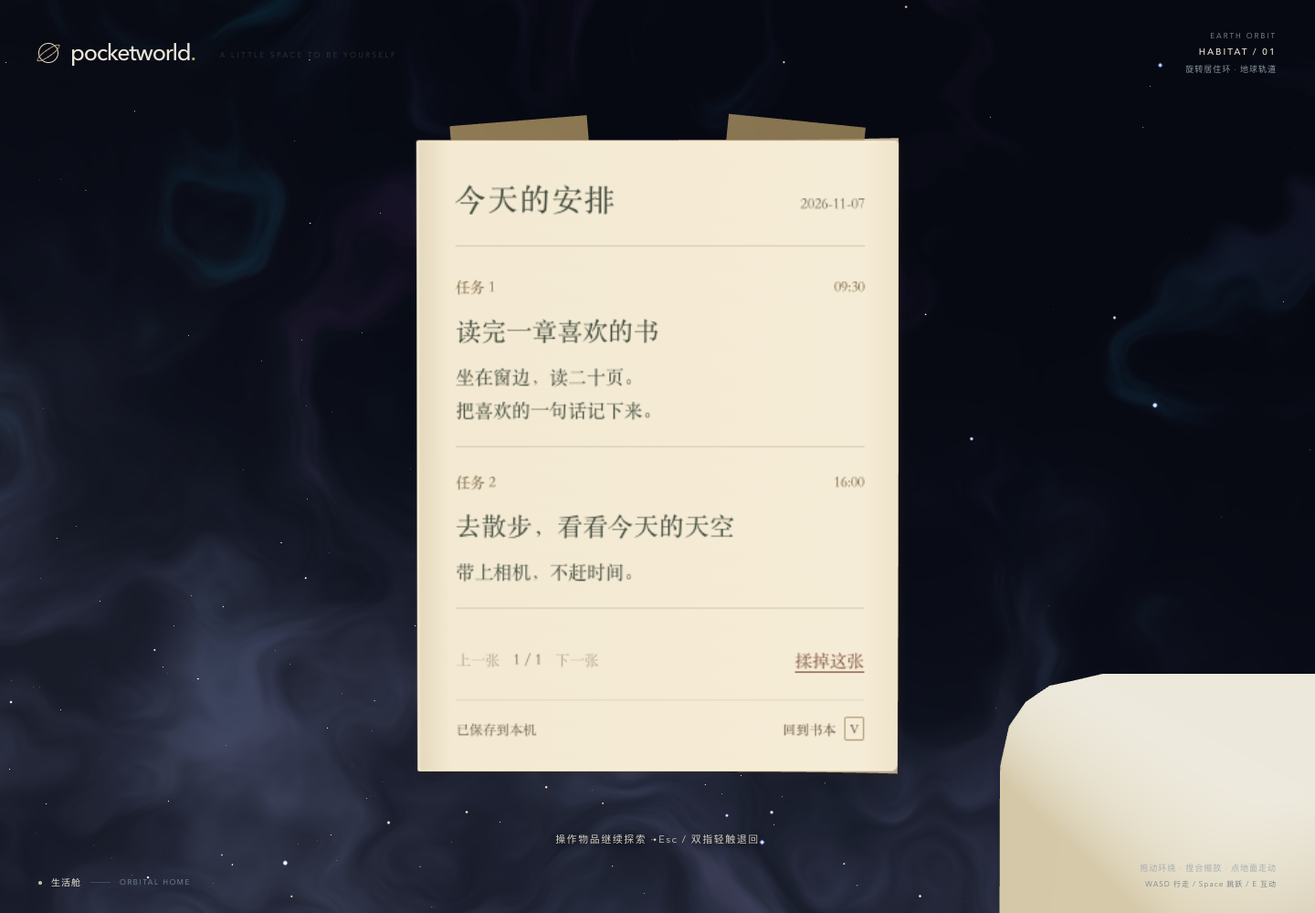
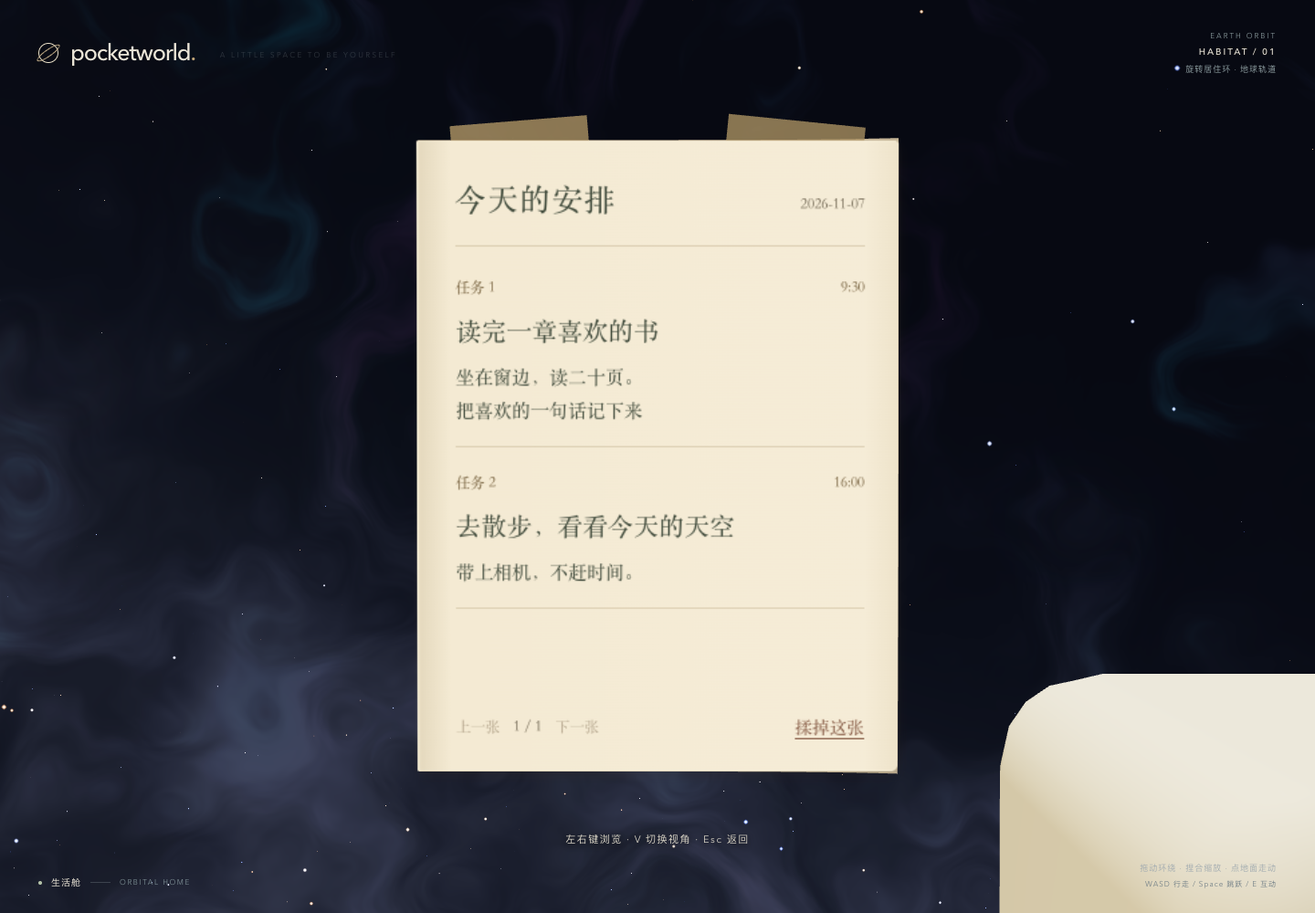
feat(schedule): 改为直接输入时间与上拖纸页贴出
按用户要求精简日程纸面，时间直接键入，视角用 V 切换，向上拖动纸面空白处松手直接贴至玻璃并进入下一页。隔离输入与拖动，处理取消、失焦和满五张拦截，飞行动画接续松手位置。18项场景测试、类型检查、生产构建及桌面/原生触屏交互验证通过。

diff --git a/src/scene/orbital/ScheduleSurfaces.tsx b/src/scene/orbital/ScheduleSurfaces.tsx
@@ -1,6 +1,7 @@
 import React, { useEffect, useRef, useState } from 'react';
 import { Html } from '@react-three/drei';
 import { useThree } from '@react-three/fiber';
+import * as THREE from 'three';
 import type { WorldSceneProps } from '../../types/world';
 import { useSchedule } from './ScheduleContext';
 import { discardSchedulePage, MAX_POSTED_SCHEDULES, postSchedulePage, schedulePageError, SCHEDULE_FULL_MESSAGE, type SchedulePage } from './schedule';
@@ -8,20 +9,21 @@ import { BOOK_POSITION, FloorPaperBall, FlyingPaper, GLASS_POSITION, PostedPaper
 import './schedule.css';
 
 export function ScheduleSurfaces(props: WorldSceneProps & { visible: boolean }) {
-  const { state, commit, ready, status, error, retry } = useSchedule();
-  const narrow = useThree(({ size }) => size.width < 720);
+  const { state, commit, ready, error, retry } = useSchedule();
+  const { camera, size } = useThree();
+  const narrow = size.width < 720;
   const [selectedId, setSelectedId] = useState<string | null>(null);
   const [flight, setFlight] = useState<PaperFlight | null>(null);
   const [message, setMessage] = useState('');
-  const [deciding, setDeciding] = useState(false);
   const article = useRef<HTMLElement>(null);
   const busy = useRef(false);
+  const drag = useRef<{ pointerId: number; x: number; y: number; pageId: string; width: number; height: number } | null>(null);
   const bookView = props.focusedObject === 'schedule';
   const glassView = props.focusedObject === 'schedule-glass';
   const focused = props.visible && (bookView || glassView);
   const selectedIndex = Math.max(0, state.posted.findIndex(page => page.id === selectedId));
   const selected = state.posted[selectedIndex];
-  const glassFull = state.posted.length >= MAX_POSTED_SCHEDULES;
+
   const settled = ['active', 'error', 'idle'].includes(props.transition.phase);
   const switchView = () => {
     if (busy.current || !settled) return;
@@ -29,7 +31,7 @@ export function ScheduleSurfaces(props: WorldSceneProps & { visible: boolean }) 
     props.onAction({ sceneId: props.sceneId, objectId: glassView ? 'schedule' : 'schedule-glass', kind: glassView ? 'plan' : 'inspect' });
   };
   useEffect(() => {
-    if (!focused) { setDeciding(false); return; }
+    if (!focused) return;
     const key = (event: KeyboardEvent) => {
       if (event.repeat || event.isComposing || event.altKey || event.ctrlKey || event.metaKey) return;
       if (event.target instanceof HTMLElement && (event.target.isContentEditable || ['INPUT', 'TEXTAREA', 'SELECT'].includes(event.target.tagName))) return;
@@ -45,16 +47,16 @@ export function ScheduleSurfaces(props: WorldSceneProps & { visible: boolean }) 
   }, [focused, glassView, selectedIndex, state.posted, settled, props.onAction]);
   useEffect(() => {
     if (focused && settled && !flight) article.current?.focus({ preventScroll: true });
-  }, [focused, bookView, settled, flight, deciding]);
+  }, [focused, bookView, settled, flight]);
   const update = (index: number, field: 'title' | 'time' | 'content', value: string) => {
     const entries = [...state.current.entries] as SchedulePage['entries'];
     entries[index] = { ...entries[index], [field]: value };
     commit({ ...state, current: { ...state.current, entries } });
     setMessage('');
   };
-  const post = () => {
-    if (busy.current || !settled) return;
-    if (glassFull) {
+  const post = (from: [number, number, number]) => {
+    if (busy.current || !settled || !ready) return;
+    if (state.posted.length >= MAX_POSTED_SCHEDULES) {
       setMessage('玻璃贴满了，先移除一张吧。');
       props.onFeatureError(SCHEDULE_FULL_MESSAGE);
       return;
@@ -64,8 +66,8 @@ export function ScheduleSurfaces(props: WorldSceneProps & { visible: boolean }) 
     const page = state.current;
     if (!commit(postSchedulePage(state))) return;
     busy.current = true;
-    setDeciding(false); setMessage(''); setSelectedId(page.id);
-    setFlight({ kind: 'post', page });
+    setMessage(''); setSelectedId(page.id);
+    setFlight({ kind: 'post', page, from });
     props.onGesture(false);
     props.onAction({ sceneId: props.sceneId, objectId: 'schedule-glass', kind: 'inspect' });
   };
@@ -76,6 +78,62 @@ export function ScheduleSurfaces(props: WorldSceneProps & { visible: boolean }) 
     setFlight({ kind: 'discard', page: selected });
     setSelectedId(state.posted[selectedIndex + 1]?.id ?? state.posted[selectedIndex - 1]?.id ?? null);
     setMessage('这张安排已揉成纸团，留在地面上。');
+  };
+  const resetDrag = () => {
+    const held = drag.current;
+    drag.current = null;
+    if (article.current) {
+      article.current.style.transform = '';
+      article.current.classList.remove('is-dragging');
+      if (held && article.current.hasPointerCapture(held.pointerId)) article.current.releasePointerCapture(held.pointerId);
+    }
+    if (held) props.onGesture(false);
+  };
+  useEffect(() => {
+    if (!focused || !bookView) resetDrag();
+  }, [focused, bookView]);
+  useEffect(() => {
+    window.addEventListener('blur', resetDrag);
+    return () => { window.removeEventListener('blur', resetDrag); resetDrag(); };
+  }, []);
+  const beginDrag = (event: React.PointerEvent<HTMLElement>) => {
+    event.stopPropagation();
+    if (!event.isPrimary) { resetDrag(); return; }
+    if (!bookView || !ready || busy.current || !settled || event.button !== 0 || drag.current) return;
+    if ((event.target as HTMLElement).closest('input, textarea, button, a, select, [contenteditable]')) return;
+    event.preventDefault();
+    const rect = event.currentTarget.getBoundingClientRect();
+    drag.current = { pointerId: event.pointerId, x: event.clientX, y: event.clientY, pageId: state.current.id, width: rect.width, height: rect.height };
+    (document.activeElement as HTMLElement)?.blur?.();
+    event.currentTarget.focus({ preventScroll: true });
+    event.currentTarget.setPointerCapture(event.pointerId);
+    props.onGesture(true);
+  };
+  const moveDrag = (event: React.PointerEvent<HTMLElement>) => {
+    event.stopPropagation();
+    const held = drag.current;
+    if (!held || held.pointerId !== event.pointerId) return;
+    const dx = event.clientX - held.x;
+    const dy = event.clientY - held.y;
+    if (Math.hypot(dx, dy) < 6) return;
+    event.preventDefault();
+    event.currentTarget.classList.add('is-dragging');
+    event.currentTarget.style.transform = `translate(${dx * event.currentTarget.offsetWidth / held.width}px, ${dy * event.currentTarget.offsetHeight / held.height}px)`;
+  };
+  const finishDrag = (event: React.PointerEvent<HTMLElement>) => {
+    event.stopPropagation();
+    const held = drag.current;
+    if (!held || held.pointerId !== event.pointerId) return;
+    const dx = event.clientX - held.x;
+    const dy = event.clientY - held.y;
+    resetDrag();
+    const threshold = Math.min(96, Math.max(56, held.height * 0.14));
+    if (held.pageId !== state.current.id || -dy < threshold || -dy < Math.abs(dx) * 1.2) return;
+    const from = new THREE.Vector3(...BOOK_POSITION).project(camera);
+    from.x += dx * 2 / size.width;
+    from.y -= dy * 2 / size.height;
+    from.unproject(camera);
+    post(from.toArray() as [number, number, number]);
   };
   const blocked = !ready || !!flight || !settled;
   return <>
@@ -92,25 +150,22 @@ export function ScheduleSurfaces(props: WorldSceneProps & { visible: boolean }) 
     {flight && <FlyingPaper flight={flight} reducedMotion={props.reducedMotion} onComplete={() => { busy.current = false; setFlight(null); }} />}
     {focused && !flight && <Html transform={!narrow} center={narrow} position={bookView ? BOOK_POSITION : [GLASS_POSITION[0], GLASS_POSITION[1], GLASS_POSITION[2] + 0.018]}
       rotation={bookView ? [-Math.PI / 2, 0, 0.08] : [0, 0, 0]} distanceFactor={narrow ? undefined : bookView ? 0.28 : 0.62} zIndexRange={[24, 21]}>
-      <article ref={article} tabIndex={-1} className={`schedule-sheet ${glassView ? 'is-posted' : ''}`} aria-label={bookView ? '日程书当前页' : '玻璃上的日程'} onPointerDown={e => e.stopPropagation()} onPointerUp={e => e.stopPropagation()} onWheel={e => e.stopPropagation()}>
+      <article ref={article} tabIndex={-1} className={`schedule-sheet ${glassView ? 'is-posted' : 'is-book'}`} aria-label={bookView ? '日程书当前页' : '玻璃上的日程'} onPointerDown={beginDrag} onPointerMove={moveDrag} onPointerUp={finishDrag} onPointerCancel={resetDrag} onLostPointerCapture={resetDrag} onWheel={e => e.stopPropagation()}>
+        {bookView && <div className="schedule-paper-drag" aria-hidden="true" />}
         <header className="schedule-heading"><h2>{glassView && !selected ? '玻璃上的安排' : '今天的安排'}</h2><span>{glassView ? selected?.date ?? state.current.date : state.current.date}</span></header>
         {!ready ? <div className="schedule-empty"><p>{error || '正在翻开日程……'}</p>{error && <button onClick={retry}>重新读取</button>}</div> : bookView ? <>
-          <div className="schedule-tasks">{state.current.entries.map((entry, index) => <fieldset key={entry.id} disabled={blocked || deciding}>
+          <div className="schedule-tasks">{state.current.entries.map((entry, index) => <fieldset key={entry.id} disabled={blocked}>
             <legend>任务 {index + 1}</legend>
             <div className="schedule-task-heading"><label className="schedule-title"><span>标题</span><input aria-label={`第${index + 1}项标题`} maxLength={60} placeholder="一件想做的事" value={entry.title} onChange={e => update(index, 'title', e.target.value)} onFocus={() => props.onGesture(true)} onBlur={() => props.onGesture(false)} /></label>
-              <label className="schedule-time"><span>时间</span><input type="time" aria-label={`第${index + 1}项时间`} value={entry.time} onChange={e => update(index, 'time', e.target.value)} onFocus={() => props.onGesture(true)} onBlur={() => props.onGesture(false)} /></label></div>
+              <label className="schedule-time"><span>时间</span><input type="text" inputMode="text" placeholder="09:00" maxLength={5} autoComplete="off" spellCheck={false} aria-label={`第${index + 1}项时间`} value={entry.time} onChange={e => update(index, 'time', e.target.value)} onFocus={() => props.onGesture(true)} onBlur={() => props.onGesture(false)} /></label></div>
             <label className="schedule-content"><span>内容</span><textarea aria-label={`第${index + 1}项内容`} maxLength={600} rows={2} placeholder="写下细节，给自己一个小提醒……" value={entry.content ?? ''} onChange={e => update(index, 'content', e.target.value)} onFocus={() => props.onGesture(true)} onBlur={() => props.onGesture(false)} /></label>
           </fieldset>)}</div>
-          {deciding ? <div className="schedule-decision"><p>{glassFull ? SCHEDULE_FULL_MESSAGE : '把这一页贴到玻璃上吗？'}</p><div><button onClick={() => { setDeciding(false); setMessage('已留在当前页，随时接着写。'); }}>先不贴，留在本页</button><button className="schedule-primary" disabled={blocked} onClick={post}>贴到玻璃上</button></div></div>
-            : <div className="schedule-actions"><span>第 {state.current.number} 页{state.queued.length > 0 ? ` · 还有 ${state.queued.length} 页旧安排` : ''}</span><button className="schedule-primary" disabled={blocked} onClick={() => {
-              const invalid = schedulePageError(state.current);
-              if (invalid) setMessage(invalid); else { setMessage(''); setDeciding(true); }
-            }}>写好了</button></div>}
+          <div className="schedule-page-number">第 {state.current.number} 页{state.queued.length > 0 ? ` · 还有 ${state.queued.length} 页旧安排` : ''}</div>
         </> : selected ? <>
           <div className="schedule-posted-tasks">{selected.entries.map((entry, index) => <section key={entry.id}><div><span>任务 {index + 1}</span><time>{entry.time || '留一点空白'}</time></div><h3>{entry.title || '这一项，留给之后的自己'}</h3><p>{entry.content || '没有补充内容'}</p></section>)}</div>
           <div className="schedule-actions"><nav aria-label="玻璃日程翻页"><button disabled={blocked || selectedIndex === 0} onClick={() => setSelectedId(state.posted[selectedIndex - 1].id)} aria-label="上一张安排">上一张</button><span>{selectedIndex + 1} / {state.posted.length}</span><button disabled={blocked || selectedIndex >= state.posted.length - 1} onClick={() => setSelectedId(state.posted[selectedIndex + 1].id)} aria-label="下一张安排">下一张</button></nav><button className="schedule-discard" disabled={blocked} onClick={discard}>揉掉这张</button></div>
-        </> : <div className="schedule-empty"><p>这里还没有贴上安排。</p><p>回到书里写两件想做的事，<br />把它们留在抬眼就能看到的地方。</p><button onClick={switchView}>回到日程书</button></div>}
-        <footer><span role="status" aria-live="polite">{message || status}</span><button disabled={!!flight || !settled} onClick={switchView}>{glassView ? '回到书本' : `看玻璃 · ${state.posted.length}/${MAX_POSTED_SCHEDULES}`} <kbd>V</kbd></button></footer>
+        </> : <div className="schedule-empty"><p>这里还没有贴上安排。</p><p>回到书里写两件想做的事，<br />把它们留在抬眼就能看到的地方。</p><p>按 V 回到日程书。</p></div>}
+        {message && <footer role="status" aria-live="polite">{message}</footer>}
         {ready && error && <p className="schedule-error" role="alert">{error}{props.adapters?.schedule && <button onClick={retry}>重试同步</button>}</p>}
       </article>
     </Html>}

diff --git a/src/scene/orbital/schedule.css b/src/scene/orbital/schedule.css
@@ -1,5 +1,5 @@
 .schedule-sheet {
-  box-sizing: border-box; width: 360px; height: 472px; padding: 26px 25px 18px 29px;
+  position: relative; box-sizing: border-box; width: 360px; height: 472px; padding: 26px 25px 18px 29px;
   display: flex; flex-direction: column; color: #414b3c; background-color: #f4ead3;
   background-image: linear-gradient(90deg, #a8956a38, #f4ead300 7%, #fffaf21f 93%, #b5a47819);
   box-shadow: 2px 4px 6px #372b1b26, inset 1px 0 2px #fff9e2;
@@ -16,8 +16,7 @@
 .schedule-sheet label { display: grid; gap: 3px; min-width: 0; }
 .schedule-sheet label > span { display: none; }
 .schedule-sheet input, .schedule-sheet textarea { box-sizing: border-box; width: 100%; min-width: 0; padding: 2px 0; border: 0; border-radius: 0; background: transparent; color: #414b3c; font: 16px/1.5 'Songti SC', Georgia, serif; caret-color: #795739; }
-.schedule-sheet input[type=time] { font-size: 13px; font-variant-numeric: tabular-nums; }
-.schedule-sheet input[type=time]::-webkit-calendar-picker-indicator { width: 12px; padding: 0; opacity: .7; }
+.schedule-time input { font-size: 13px; font-variant-numeric: tabular-nums; }
 .schedule-sheet textarea { height: 46px; resize: none; font-size: 13px; line-height: 22px; background-image: repeating-linear-gradient(transparent 0 21px, #bbaa863d 21px 22px); scrollbar-width: thin; }
 .schedule-sheet input::placeholder, .schedule-sheet textarea::placeholder { color: #77705d; opacity: 1; }
 .schedule-sheet input:focus-visible, .schedule-sheet textarea:focus-visible, .schedule-sheet button:focus-visible { outline: 1px solid #7c6746; outline-offset: 3px; }
@@ -25,16 +24,9 @@
 .schedule-sheet button { border: 0; padding: 6px 0; background: transparent; color: #665035; font: inherit; cursor: pointer; text-underline-offset: 4px; }
 .schedule-sheet button:hover:not(:disabled) { text-decoration: underline; }
 .schedule-sheet button:disabled { opacity: .45; cursor: default; }
-.schedule-sheet .schedule-primary { padding: 7px 12px; background: #4f624d; color: #fff6de; border-radius: 3px; }
 .schedule-actions { flex-shrink: 0; display: flex; justify-content: space-between; align-items: center; gap: 12px; margin-top: 14px; }
 .schedule-actions > span, .schedule-actions nav > span { font-size: 11px; color: #6c624e; }
 .schedule-sheet footer { flex-shrink: 0; margin-top: 14px; padding-top: 8px; display: flex; align-items: center; justify-content: space-between; gap: 10px; border-top: 1px solid #bbaa8640; font-size: 10px; color: #6c624e; }
-.schedule-sheet footer > span { flex: 1; }
-.schedule-sheet footer button { white-space: nowrap; }
-.schedule-sheet kbd { margin-left: 4px; font: inherit; padding: 1px 3px; border: 1px solid #b6a27b; border-radius: 2px; }
-.schedule-decision { margin-top: 12px; }
-.schedule-decision p { margin: 0 0 7px; font-size: 14px; }
-.schedule-decision > div { display: flex; align-items: center; justify-content: space-between; gap: 8px; }
 .schedule-empty { flex: 1; display: flex; flex-direction: column; justify-content: center; line-height: 1.9; }
 .schedule-empty p { margin: 0 0 14px; }
 .schedule-empty button { align-self: flex-start; text-decoration: underline; }
@@ -57,19 +49,23 @@
   .schedule-heading h2 { font-size: 24px; }
   .schedule-heading > span, .schedule-tasks legend { font-size: 12px; }
   .schedule-sheet button { min-height: 44px; min-width: 44px; padding: 8px 6px; font-size: 14px; }
-  .schedule-sheet .schedule-primary { padding: 8px 14px; }
   .schedule-task-heading { grid-template-columns: minmax(0, 1fr) 105px; gap: 10px; }
   .schedule-sheet input { min-height: 44px; }
-  .schedule-sheet input[type=time] { font-size: 16px; }
+  .schedule-time input { font-size: 16px; }
   .schedule-sheet textarea { font-size: 16px; height: 60px; line-height: 27px; background-image: repeating-linear-gradient(transparent 0 26px, #bbaa863d 26px 27px); }
   .schedule-sheet footer { margin-top: 10px; padding-top: 4px; font-size: 12px; }
   .schedule-actions { margin-top: 10px; gap: 8px; }
   .schedule-actions > span, .schedule-actions nav > span { font-size: 12px; }
   .schedule-actions nav { gap: 4px; }
   .schedule-actions nav button { font-size: 13px; }
-  .schedule-decision { flex-shrink: 0; }
-  .schedule-decision p { font-size: 16px; }
   .schedule-posted-tasks p { font-size: 16px; }
   .schedule-posted-tasks section > div { font-size: 13px; }
   .schedule-error { flex-shrink: 0; font-size: 12px; }
 }
+
+.schedule-paper-drag { position: absolute; inset: 0; touch-action: none; cursor: grab; }
+.schedule-sheet.is-book > :not(.schedule-paper-drag) { position: relative; pointer-events: none; }
+.schedule-sheet.is-book input, .schedule-sheet.is-book textarea, .schedule-sheet.is-book button { pointer-events: auto; }
+.schedule-sheet.is-dragging { cursor: grabbing; user-select: none; will-change: transform; box-shadow: 4px 12px 18px #372b1b40; }
+.schedule-sheet.is-dragging .schedule-paper-drag { cursor: grabbing; }
+.schedule-page-number { flex-shrink: 0; margin-top: 18px; padding: 8px 0; color: #6c624e; font-size: 11px; }

diff --git a/src/scene/orbital/ScheduleContext.tsx b/src/scene/orbital/ScheduleContext.tsx
@@ -5,7 +5,6 @@ import { flattenSchedule, isScheduleEntry, isScheduleNotebook, migrateSchedule, 
 interface ScheduleContextValue {
   state: ScheduleNotebook;
   ready: boolean;
-  status: string;
   error: string;
   commit: (next: ScheduleNotebook) => boolean;
   retry: () => void;
@@ -20,7 +19,6 @@ export function ScheduleProvider({ adapters, children }: { adapters?: WorldFeatu
   const [state, setState] = useState(migrateSchedule);
   const [ready, setReady] = useState(false);
   const [error, setError] = useState('');
-  const [status, setStatus] = useState('正在翻开日程');
   const [attempt, setAttempt] = useState(0);
   const latest = useRef(state);
   const remoteQueue = useRef(Promise.resolve());
@@ -30,7 +28,6 @@ export function ScheduleProvider({ adapters, children }: { adapters?: WorldFeatu
     if (!remote) return;
     const signal = lifetime.current?.signal;
     if (!signal) return;
-    setStatus('已保存到本机 · 正在同步');
     remoteQueue.current = remoteQueue.current.then(async () => {
       if (signal.aborted || next !== latest.current) return;
       try {
@@ -39,10 +36,10 @@ export function ScheduleProvider({ adapters, children }: { adapters?: WorldFeatu
           const saved = { ...next, syncPending: false };
           localStorage.setItem(SCHEDULE_KEY, JSON.stringify(saved));
           latest.current = saved; setState(saved);
-          setStatus('已保存并同步'); setError('');
+          setError('');
         }
       } catch {
-        if (!signal.aborted) { setStatus('已保存到本机'); setError('远程同步未完成，本机记录仍在。请重试同步。'); }
+        if (!signal.aborted) setError('远程同步未完成，本机记录仍在。请重试同步。');
       }
     });
   }, [remote]);
@@ -80,7 +77,6 @@ export function ScheduleProvider({ adapters, children }: { adapters?: WorldFeatu
         latest.current = next;
         setState(next);
         setReady(true);
-        setStatus('每页两件事，慢慢安排');
         if (offline) setError('远程日程暂时无法读取，已恢复本机记录。');
         else if (next.syncPending) sync(next);
       } catch (failure) {
@@ -96,11 +92,10 @@ export function ScheduleProvider({ adapters, children }: { adapters?: WorldFeatu
     catch { setError('本机保存失败，请保留当前页并检查浏览器存储空间。'); return false; }
     latest.current = next;
     setState(next);
-    setStatus('已保存到本机');
     setError('');
     sync(next);
     return true;
   }, [ready, sync]);
   const retry = () => ready ? sync(latest.current) : setAttempt(value => value + 1);
-  return <ScheduleContext.Provider value={{ state, ready, status, error, commit, retry }}>{children}</ScheduleContext.Provider>;
+  return <ScheduleContext.Provider value={{ state, ready, error, commit, retry }}>{children}</ScheduleContext.Provider>;
 }

diff --git a/src/App.tsx b/src/App.tsx
@@ -101,7 +101,9 @@ export const App: React.FC<{ adapters?: WorldFeatureAdapters }> = ({ adapters })
     else void roomAudio.startMusic(current.disc);
   }, []);
   const onToggleMute = useCallback(() => { roomAudio.setMuted(!roomAudio.getSnapshot().isMuted); }, []);
-  const status = announcement || world.error || audio.error || world.hover?.hint || (world.focusedObject ? '操作物品继续探索 · Esc / 双指轻触退回' : '触碰物品，留一会儿');
+  const scheduleGuide = world.focusedObject === 'schedule' ? '上拖纸页贴出 · V 切换视角 · Esc 返回'
+    : world.focusedObject === 'schedule-glass' ? '左右键浏览 · V 切换视角 · Esc 返回' : '';
+  const status = announcement || world.error || audio.error || scheduleGuide || world.hover?.hint || (world.focusedObject ? '操作物品继续探索 · Esc / 双指轻触退回' : '触碰物品，留一会儿');
   const travelling = world.transition.action?.kind === 'travel' && !['active', 'idle', 'error'].includes(world.transition.phase);
   return <main className={`orbital-app${draggingFile ? ' is-importing' : ''}${world.focusedObject ? ' is-focused' : ''}`} aria-label="PocketWorld 轨道居住舱"
     onDragEnter={event => { if (!event.dataTransfer.types.includes('Files')) return; event.preventDefault(); inputDepth.current += 1; setDraggingFile(true); }}
@@ -124,6 +126,6 @@ export const App: React.FC<{ adapters?: WorldFeatureAdapters }> = ({ adapters })
     {audio.isPlaying && <aside className="orbital-now-playing"><span className="orbital-record-dot" /><div><small>NOW PLAYING</small><p>{audio.disc.title}</p></div></aside>}
     {draggingFile && <div className="orbital-drop-message"><span className="orbital-drop-disc" /><p>让这段音乐，留在这里。</p><small>松手制作一张自己的唱片</small></div>}
     <input ref={fileInput} type="file" accept="audio/*,.mp3,.wav,.ogg,.flac,.m4a,.aac" hidden onChange={event => importFiles(event.target.files)} />
-    <span className="sr-only">键盘：J 日记，O 日程，R 阅读，B 休息，C 电脑，L 音乐，M 静音，Esc 返回。触屏在物品上拖动，双指轻触返回。</span>
+    <span className="sr-only">键盘：J 日记，O 日程，V 切换日程书与玻璃，向上拖动纸张贴出安排，R 阅读，B 休息，C 电脑，L 音乐，M 静音，Esc 返回。触屏在物品上拖动，双指轻触返回。</span>
   </main>;
 };

diff --git a/src/scene/orbital/SchedulePaper.tsx b/src/scene/orbital/SchedulePaper.tsx
@@ -72,13 +72,13 @@ export function FloorPaperBall({ ball }: { ball: PaperBall }) {
     <meshStandardMaterial color="#e7ddc3" roughness={1} side={THREE.DoubleSide} flatShading />
   </mesh>;
 }
-export interface PaperFlight { kind: 'post' | 'discard'; page: SchedulePage }
+export interface PaperFlight { kind: 'post' | 'discard'; page: SchedulePage; from?: [number, number, number] }
 export function FlyingPaper({ flight, reducedMotion, onComplete }: { flight: PaperFlight; reducedMotion: boolean; onComplete: () => void }) {
   const mesh = useRef<THREE.Mesh>(null);
   const elapsed = useRef(0);
   const data = useMemo(() => paperGeometry(), []);
   const texture = useMemo(() => pageTexture(flight.page), [flight.page]);
-  const start = useMemo(() => new THREE.Vector3(...(flight.kind === 'post' ? BOOK_POSITION : GLASS_POSITION)), [flight.kind]);
+  const start = useMemo(() => new THREE.Vector3(...(flight.kind === 'post' ? flight.from ?? BOOK_POSITION : GLASS_POSITION)), [flight]);
   const end = useMemo(() => new THREE.Vector3(...(flight.kind === 'post' ? GLASS_POSITION : paperBallPosition(flight.page.number))), [flight]);
   useEffect(() => () => data.geometry.dispose(), [data]);
   useEffect(() => () => texture.dispose(), [texture]);

diff --git a/src/scene/orbital/schedule.ts b/src/scene/orbital/schedule.ts
@@ -53,7 +53,7 @@ export function schedulePageError(page: SchedulePage): string | null {
   for (const entry of page.entries) {
     if (!(entry.title.trim() || entry.time.trim() || entry.content?.trim())) continue;
     if (!entry.title.trim()) return '请为写好的任务补上标题。';
-    if (!/^([01]\d|2[0-3]):[0-5]\d$/.test(entry.time)) return '请为写好的任务选择时间。';
+    if (!/^([01]?\d|2[0-3])[:：][0-5]\d$/.test(entry.time.trim())) return '请输入有效时间，例如 09:00。';
   }
   return null;
 }
